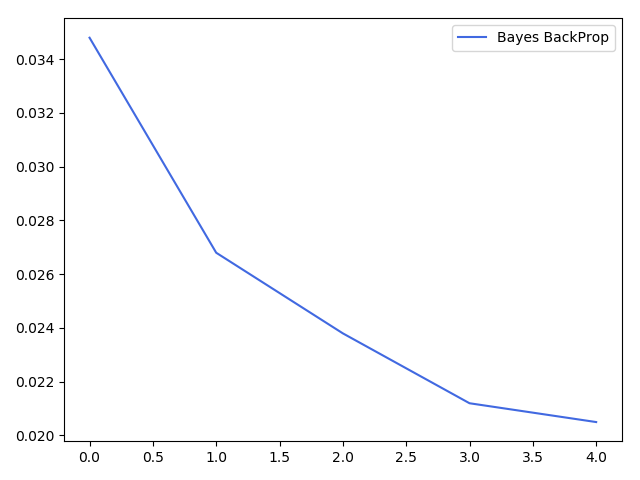
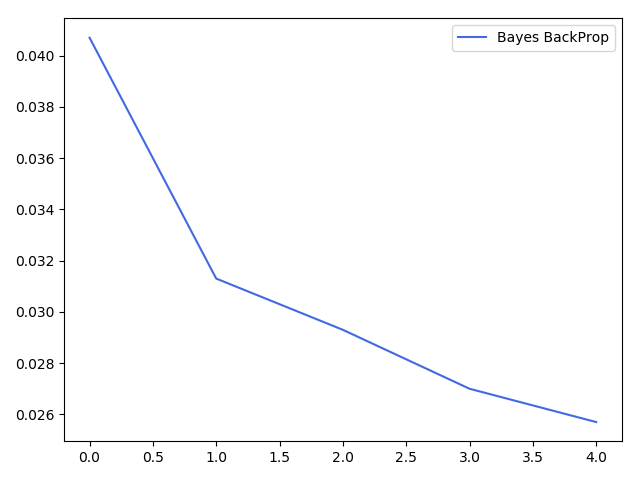
Suggestion incoporation and comments

diff --git a/BayesBackpropagation.py b/BayesBackpropagation.py
@@ -13,15 +13,17 @@ from torchvision.utils import make_grid
 from tqdm import tqdm, trange
 from torch.autograd import Variable
 
+#Checking if gpu is available
 DEVICE = torch.device("cuda" if torch.cuda.is_available() else "cpu")
 LOADER_KWARGS = {'num_workers': 1, 'pin_memory': True} if torch.cuda.is_available() else {}
 print("Cuda available?: ",torch.cuda.is_available())
 
+#Default declaration of values of PI, SIGMA_1 and SIGMA_2
 PI = 0.5
 SIGMA_1 = torch.FloatTensor([math.exp(-0)])
 SIGMA_2 = torch.FloatTensor([math.exp(-6)])
 
-
+#Gaussian class
 class Gaussian(object):
     def __init__(self, mu, rho):
         super().__init__()
@@ -31,7 +33,7 @@ class Gaussian(object):
     
     @property
     def sigma(self):
-        return torch.log1p(torch.exp(self.rho))
+        return torch.log1p(torch.exp(self.rho)) #as mentioned in paper, to make sigma always positive
     
     def sample(self):
         epsilon = self.normal.sample(self.rho.size()).to(DEVICE)
@@ -42,6 +44,7 @@ class Gaussian(object):
                 - torch.log(self.sigma)
                 - ((input - self.mu) ** 2) / (2 * self.sigma ** 2)).sum()
 
+#Mixing two gaussians based on a probability
 class ScaleMixtureGaussian(object):
     def __init__(self, pi, sigma1, sigma2):
         super().__init__()
@@ -54,8 +57,9 @@ class ScaleMixtureGaussian(object):
     def log_prob(self, input):
         prob1 = torch.exp(self.gaussian1.log_prob(input))
         prob2 = torch.exp(self.gaussian2.log_prob(input))
-        return (torch.log(self.pi * prob1 + (1-self.pi) * prob2)).sum()
+        return (torch.log(self.pi * prob1 + (1-self.pi) * prob2)).sum() #scalar mixing
 
+#Single Bayesian fully connected Layer with linear activation function  
 class BayesianLinear(nn.Module):
     def __init__(self, in_features, out_features, hasScalarMixturePrior):
         super().__init__()
@@ -72,6 +76,7 @@ class BayesianLinear(nn.Module):
         # Prior distributions
         self.weight_prior = 0
         self.bias_prior = 0
+        #To set type of prior distribution
         if hasScalarMixturePrior == True:
             self.weight_prior = ScaleMixtureGaussian(PI, SIGMA_1, SIGMA_2)
             self.bias_prior = ScaleMixtureGaussian(PI, SIGMA_1, SIGMA_2)
@@ -81,6 +86,7 @@ class BayesianLinear(nn.Module):
         self.log_prior = 0
         self.log_variational_posterior = 0
 
+    #Forward propagation
     def forward(self, input, sample=False, calculate_log_probs=False):
         if self.training or sample:
             weight = self.weight.sample()
@@ -105,12 +111,15 @@ class BayesianNetwork(nn.Module):
         self.SAMPLES = SAMPLES
         self.BATCH_SIZE = BATCH_SIZE
         self.NUM_BATCHES = NUM_BATCHES
-        self.DEPTH = 0
+        self.DEPTH = 0 #captures depth of network
+        #Updating the global variables
         PI = pi
         SIGMA_1 = sigma1
         SIGMA_2 = sigma2
+        #to make sure that number of hidden layers is one less than number of activation function
+        assert (activations.size - layers.size) == 1 
 
-        self.layers = nn.ModuleList([])
+        self.layers = nn.ModuleList([]) #To combine consecutive layers
         if layers.size == 0:
             self.layers.append(BayesianLinear(inputSize, CLASSES,hasScalarMixturePrior))
             self.DEPTH += 1
@@ -120,9 +129,10 @@ class BayesianNetwork(nn.Module):
             for i in range(layers.size-1):
                 self.layers.append(BayesianLinear(layers[i], layers[i+1],hasScalarMixturePrior))
                 self.DEPTH += 1
-            self.layers.append(BayesianLinear(layers[layers.size-1], CLASSES,hasScalarMixturePrior))
+            self.layers.append(BayesianLinear(layers[layers.size-1], CLASSES,hasScalarMixturePrior)) #output layer
             self.DEPTH += 1
-            
+    
+    #Forward propagation and assigning activation functions to linear layers
     def forward(self, x, sample=False):
         x = x.view(-1, self.inputSize)
         layerNumber = 0

diff --git a/MNIST.py b/MNIST.py
@@ -2,8 +2,19 @@ from BayesBackpropagation import *
 
 class MNIST(object):
     def __init__(self,BATCH_SIZE,TEST_BATCH_SIZE,CLASSES,TRAIN_EPOCHS,SAMPLES,TEST_SAMPLES,hasScalarMixturePrior,PI,SIGMA_1,SIGMA_2,INPUT_SIZE,LAYERS,ACTIVATION_FUNCTIONS):
-        self.train_loader = torch.utils.data.DataLoader(datasets.MNIST('./data/mnist', train=True, download=True,transform=transforms.ToTensor()),batch_size=BATCH_SIZE, shuffle=True, **LOADER_KWARGS)
-        self.test_loader = torch.utils.data.DataLoader(datasets.MNIST('./data/mnist', train=False, download=True,transform=transforms.ToTensor()),batch_size=TEST_BATCH_SIZE, shuffle=False, **LOADER_KWARGS)
+        
+        #Normalize data set by diving by 126 as suggested in the paper
+        content_transform = transforms.Compose([
+            transforms.ToTensor(), #Divides by 255
+            transforms.Lambda(lambda x: x.mul(255/126))
+        ])
+
+        #Load Training Data
+        self.train_loader = torch.utils.data.DataLoader(datasets.MNIST('./data/mnist', train=True, download=True,transform=content_transform),batch_size=BATCH_SIZE, shuffle=True, **LOADER_KWARGS)
+        #Load Testing Data
+        self.test_loader = torch.utils.data.DataLoader(datasets.MNIST('./data/mnist', train=False, download=True,transform=content_transform),batch_size=TEST_BATCH_SIZE, shuffle=False, **LOADER_KWARGS)
+        
+        #Hyper parameter setting
         self.TEST_BATCH_SIZE = TEST_BATCH_SIZE
         self.TRAIN_SIZE = len(self.train_loader.dataset)
         self.TEST_SIZE = len(self.test_loader.dataset)
@@ -14,9 +25,12 @@ class MNIST(object):
         self.TRAIN_EPOCHS = TRAIN_EPOCHS
         self.SAMPLES = SAMPLES
         self.TEST_SAMPLES = TEST_SAMPLES
+
+        #Checking if the mentioned batch sizes are feasible
         assert (self.TRAIN_SIZE % BATCH_SIZE) == 0
         assert (self.TEST_SIZE % TEST_BATCH_SIZE) == 0
     
+        #Network Declaration
         self.net = BayesianNetwork(inputSize = INPUT_SIZE,\
                       CLASSES = CLASSES, \
                       layers=LAYERS, \
@@ -29,8 +43,10 @@ class MNIST(object):
                       sigma1 = SIGMA_1,\
                       sigma2 = SIGMA_2).to(DEVICE)
 
-        self.optimizer = optim.Adam(self.net.parameters())
+        #Optimizer declaration
+        self.optimizer = optim.SGD(self.net.parameters(),lr=1e-4,momentum=0.9) #self.optimizer = optim.Adam(self.net.parameters())
 
+    #Define the training step for MNIST data set
     def train(self):
         self.net.train()
         for batch_idx, (data, target) in enumerate(tqdm(self.train_loader)):
@@ -40,6 +56,7 @@ class MNIST(object):
             loss.backward()
             self.optimizer.step()
     
+    #Testing the ensemble
     def test(self):
         print('Testing begins!')
         self.net.eval()
@@ -47,9 +64,9 @@ class MNIST(object):
         corrects = np.zeros(self.TEST_SAMPLES+1, dtype=int)
         with torch.no_grad():
             for data, target in self.test_loader:
-                data, target = data.to(DEVICE), target.to(DEVICE)
+                data, target = data.to(DEVICE), target.to(DEVICE) # Load data to cpu/gpu
                 outputs = torch.zeros(self.TEST_SAMPLES+1, self.TEST_BATCH_SIZE, self.CLASSES).to(DEVICE)
-                for i in range(self.TEST_SAMPLES):
+                for i in range(self.TEST_SAMPLES): #testing over ensemble
                     outputs[i] = self.net(data, sample=True)
                 outputs[self.TEST_SAMPLES] = self.net(data, sample=False)
                 output = outputs.mean(0)
@@ -58,4 +75,4 @@ class MNIST(object):
                 corrects += preds.eq(target.view_as(pred)).sum(dim=1).squeeze().cpu().numpy()
                 correct += pred.eq(target.view_as(pred)).sum().item()
         print('Ensemble accuracy = ',correct/self.TEST_SIZE)
-        return correct/self.TEST_SIZE
+        return correct/self.TEST_SIZE #Accuracy

diff --git a/ClassifyMNIST.py b/ClassifyMNIST.py
@@ -3,19 +3,23 @@ import numpy as np
 
 # Multiple epochs
 def multipleEpochAnalyis():
+
+    #Hyperparameter declaration
     BATCH_SIZE = 100
     TEST_BATCH_SIZE = 5
     CLASSES = 10
-    TRAIN_EPOCHS = 600
+    TRAIN_EPOCHS = 5
     SAMPLES = 2
     TEST_SAMPLES = 10
     PI = 0.5
     SIGMA_1 = torch.FloatTensor([math.exp(-0)])
     SIGMA_2 = torch.FloatTensor([math.exp(-6)])
     INPUT_SIZE = 28*28
-    LAYERS = np.array([1200,1200])
+    LAYERS = np.array([400,400])
 
-    errorRate = []
+    errorRate = [] #to store error rates at different epochs
+
+    #Declare object of class MNIST declared in MNIST.py
     mnist = MNIST(BATCH_SIZE = BATCH_SIZE,\
                 TEST_BATCH_SIZE = TEST_BATCH_SIZE,\
                 CLASSES = CLASSES,\
@@ -32,8 +36,7 @@ def multipleEpochAnalyis():
 
     for epoch in range(TRAIN_EPOCHS):
         mnist.train()
-        #accuracy.append([epoch,mnist.test()])
-        errorRate.append(1-mnist.test())
+        errorRate.append(1-mnist.test()) # 1-accuracy
 
     errorRate = np.asarray(errorRate)
     np.savetxt('./Results/BBB_epochs_errorRate.csv',errorRate,delimiter=",")
@@ -42,9 +45,12 @@ def multipleEpochAnalyis():
     plt.legend()
     plt.tight_layout()
     plt.savefig('./Results/MNIST_EPOCHS.png')
+    torch.save(mnist.net.state_dict(), './Models/BBB_MNIST.pth')
 
 # Scalar Mixture vs Gaussian
 def MixtureVsGaussianAnalyis():
+
+    #Hyperparameter setting
     BATCH_SIZE = 100
     TEST_BATCH_SIZE = 5
     CLASSES = 10
@@ -55,12 +61,14 @@ def MixtureVsGaussianAnalyis():
     SIGMA_1 = torch.FloatTensor([math.exp(-0)])
     SIGMA_2 = torch.FloatTensor([math.exp(-6)])
     INPUT_SIZE = 28*28
-    LAYERS = np.array([[400,400],[800,800],[1200,1200]])
+    LAYERS = np.array([[400,400],[800,800],[1200,1200]]) #Possible layer configuration
     reading = []
 
     for l in range(LAYERS.shape[0]):
         layer = np.asarray(LAYERS[l])
         print("Network architecture: ",layer)
+
+        #one with scalar mixture gaussian prior
         mnist = MNIST(BATCH_SIZE = BATCH_SIZE,\
                 TEST_BATCH_SIZE = TEST_BATCH_SIZE,\
                 CLASSES = CLASSES,\
@@ -74,14 +82,15 @@ def MixtureVsGaussianAnalyis():
                 INPUT_SIZE = INPUT_SIZE,\
                 LAYERS = layer,\
                 ACTIVATION_FUNCTIONS = np.array(['relu','relu','softmax']))
-    
+
+        #one with simple gaussian prior
         mnistGaussian = MNIST(BATCH_SIZE = BATCH_SIZE,\
                     TEST_BATCH_SIZE = TEST_BATCH_SIZE,\
                     CLASSES = CLASSES,\
                     TRAIN_EPOCHS = TRAIN_EPOCHS,\
                     SAMPLES = SAMPLES,\
                     TEST_SAMPLES = TEST_SAMPLES,\
-                    hasScalarMixturePrior = False,\
+                    hasScalarMixturePrior = False,\ 
                     PI = PI,\
                     SIGMA_1 = SIGMA_1,\
                     SIGMA_2 = SIGMA_2,\
@@ -100,15 +109,17 @@ def MixtureVsGaussianAnalyis():
 
 # Different values of sample, pi, sigma 1 and sigma 2
 def HyperparameterAnalysis():
+    
+    #hyper parameter declaration
     BATCH_SIZE = 100
     TEST_BATCH_SIZE = 5
     CLASSES = 10
     TRAIN_EPOCHS = 600
-    SAMPLES = np.array([1])
+    SAMPLES = np.array([1,2,5,10]) #possible values of sample size
     TEST_SAMPLES = 10
-    PI = np.array([0.25,0.5,0.75])
-    SIGMA_1 = np.array([0,1,2])
-    SIGMA_2 = np.array([6,7,8])
+    PI = np.array([0.25,0.5,0.75]) #possible values of pi
+    SIGMA_1 = np.array([0,1,2]) #possible values of sigma1 
+    SIGMA_2 = np.array([6,7,8]) #possible values of sigma2
     INPUT_SIZE = 28*28
     LAYERS = np.array([400,400])
 

diff --git a/Regression.py b/Regression.py
@@ -1,5 +1,6 @@
 from BayesBackpropagation import *
 
+# Define training step for regression
 def train(net, optimizer, data, target, NUM_BATCHES):
     net.train()
     for i in range(NUM_BATCHES):
@@ -10,6 +11,7 @@ def train(net, optimizer, data, target, NUM_BATCHES):
         loss.backward()
         optimizer.step()
 
+#Hyperparameter setting
 TRAIN_EPOCHS = 500
 SAMPLES = 1
 TEST_SAMPLES = 10
@@ -17,13 +19,18 @@ BATCH_SIZE = 100
 NUM_BATCHES = 5
 TEST_BATCH_SIZE = 50
 CLASSES = 1
+PI = 0.5
+SIGMA_1 = torch.FloatTensor([math.exp(-0)])
+SIGMA_2 = torch.FloatTensor([math.exp(-6)])
+
 
 print('Generating Data set.')
 
-Var = lambda x, dtype=torch.FloatTensor: Variable(torch.from_numpy(x).type(dtype))
+#Data Generation step
+Var = lambda x, dtype=torch.FloatTensor: Variable(torch.from_numpy(x).type(dtype)) #converting data to tensor
 
 x = np.random.uniform(-0.1, 0.45, size=(NUM_BATCHES,BATCH_SIZE))
-noise = np.random.normal(0, 0.02, size=(NUM_BATCHES,BATCH_SIZE))
+noise = np.random.normal(0, 0.02, size=(NUM_BATCHES,BATCH_SIZE)) #metric as mentioned in the paper
 y = x + 0.3*np.sin(2*np.pi*(x+noise)) + 0.3*np.sin(4*np.pi*(x+noise)) + noise
 X = Var(x)
 Y = Var(y)
@@ -36,14 +43,12 @@ X_test = Var(x_test)
 #plt.legend()
 #plt.tight_layout()
 #plt.show()
-print(x.shape)
+#print(x.shape)
 
 #Training
-PI = 0.5
-SIGMA_1 = torch.FloatTensor([math.exp(-0)])
-SIGMA_2 = torch.FloatTensor([math.exp(-6)])
-
 print('Training Begins!')
+
+#Declare Network
 net = BayesianNetwork(inputSize = 1,\
                       CLASSES = CLASSES, \
                       layers=np.array([100,400,400]), \
@@ -55,7 +60,10 @@ net = BayesianNetwork(inputSize = 1,\
                       pi = PI,\
                       sigma1 = SIGMA_1,\
                       sigma2 = SIGMA_2).to(DEVICE)
-optimizer = optim.Adam(net.parameters())
+
+#Declare the optimizer
+optimizer = optim.SGD(net.parameters(),lr=1e-4,momentum=0.9) #optimizer = optim.Adam(net.parameters())
+
 for epoch in range(TRAIN_EPOCHS):
     train(net, optimizer,data=X,target=Y,NUM_BATCHES=NUM_BATCHES)
 
@@ -66,18 +74,19 @@ outputs = torch.zeros(TEST_SAMPLES+1, TEST_BATCH_SIZE, CLASSES).to(DEVICE)
 for i in range(TEST_SAMPLES):
     outputs[i] = net.forward(X_test)
 outputs[TEST_SAMPLES] = net.forward(X_test)
-pred_mean = outputs.mean(0).data.numpy().squeeze(1)
-pred_std = outputs.std(0).data.numpy().squeeze(1)
+pred_mean = outputs.mean(0).data.numpy().squeeze(1) #Compute mean prediction
+pred_std = outputs.std(0).data.numpy().squeeze(1) #Compute standard deviation of prediction for each data point
 
+#Visualization
 plt.scatter(x, y, c='navy', label='target')
-
 plt.plot(x_test, pred_mean, c='royalblue', label='Prediction')
 plt.fill_between(x_test, pred_mean - 3 * pred_std, pred_mean + 3 * pred_std,
                      color='cornflowerblue', alpha=.5, label='+/- 3 std')
-
 plt.plot(x_test, y_test, c='grey', label='truth')
-
 plt.legend()
 plt.tight_layout()
 plt.savefig('./Results/Regression.png')
 #plt.show()
+
+#Save the trained model
+torch.save(net.state_dict(), './Models/Regression.pth')
